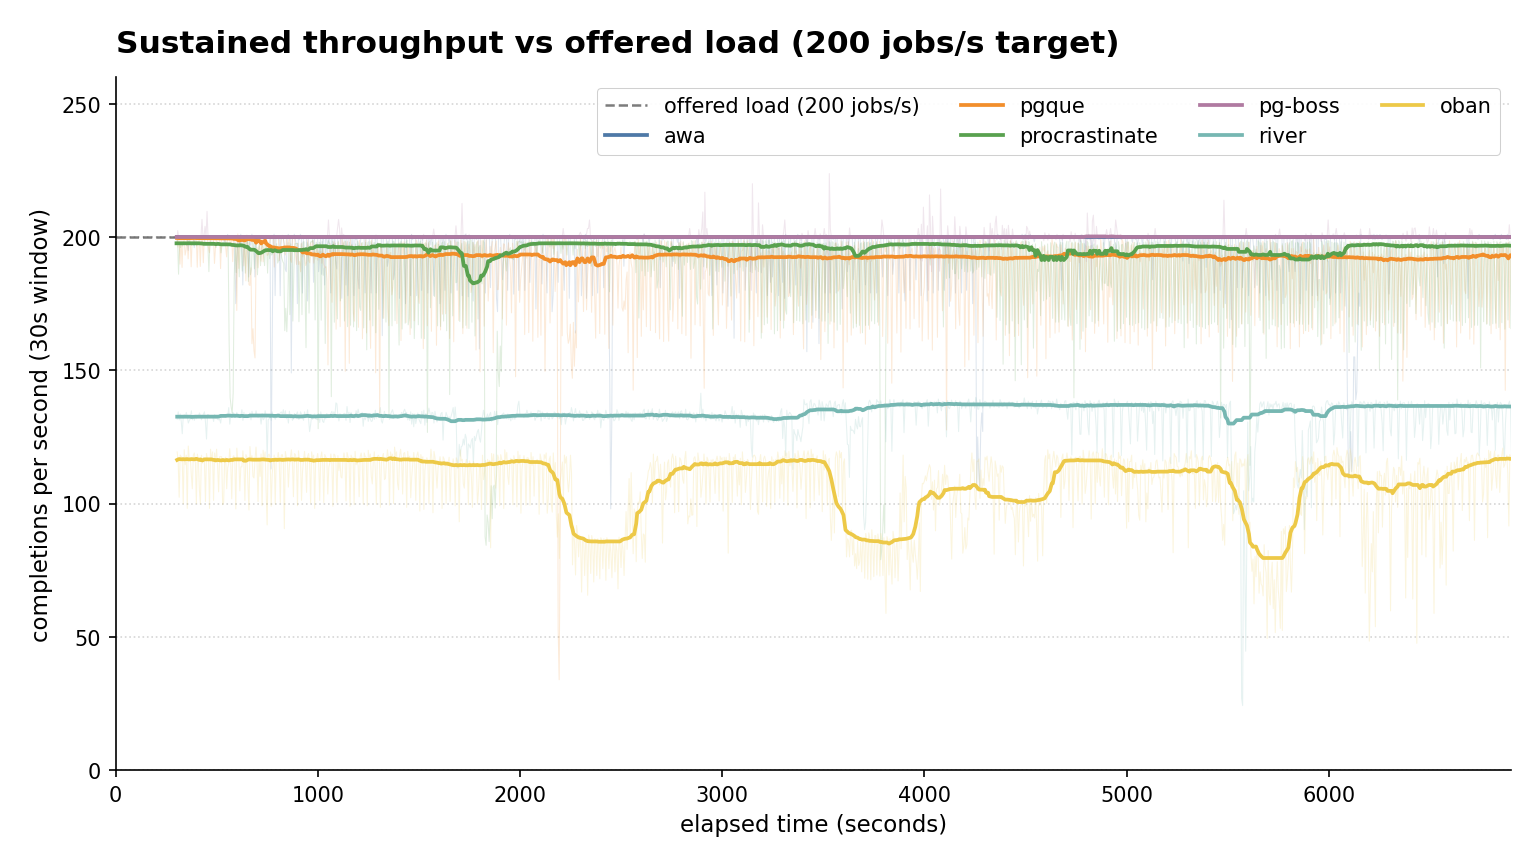
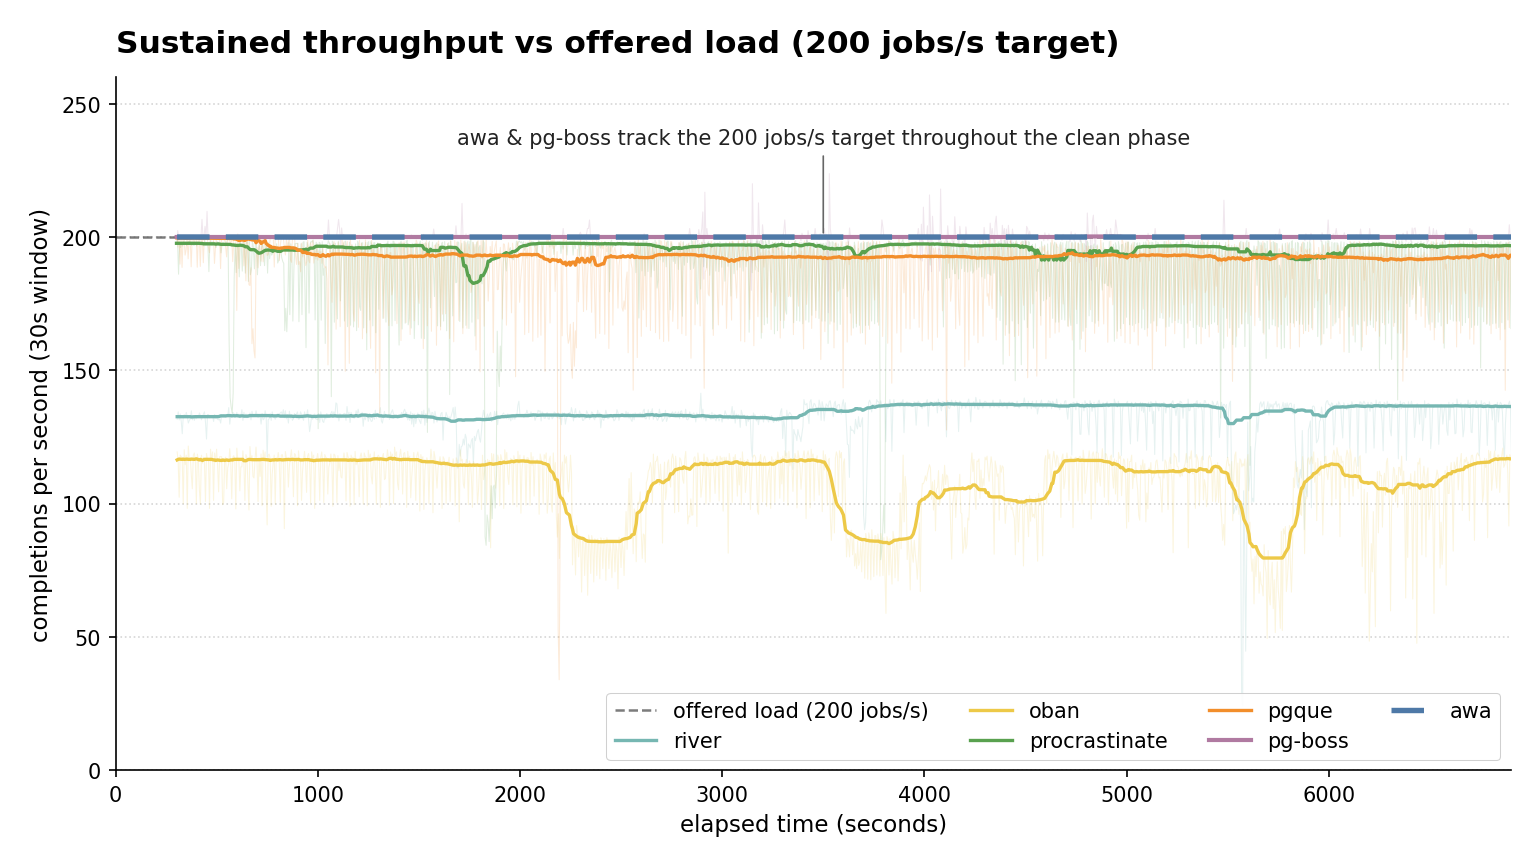
Throughput plot: make awa/pg-boss overlap legible
Both awa and pg-boss track the 200 jobs/s target exactly through the
115-minute clean phase, so their lines coincided in the original
plot — looking like awa was missing. Now pg-boss renders solid and
awa renders dashed on top with extra weight, plus an inline
annotation calling out that both systems track the target.

Also localises raw.csv to results/2026-04-28/combined/raw.csv (the
copy in this repo, gitignored due to size) instead of the path in
the upstream awa tree, which was deleted when the bench harness was
extracted.

diff --git a/scripts/render_readme_plots.py b/scripts/render_readme_plots.py
@@ -28,10 +28,7 @@ from bench_harness.plots import lttb
 REPO_ROOT = Path("/home/brian/dev/postgresql-job-queue-benchmarking")
 RESULTS_DIR = REPO_ROOT / "results" / "2026-04-28"
 SUMMARY_PATH = RESULTS_DIR / "combined" / "summary.json"
-RAW_CSV = Path(
-    "/home/brian/dev/awa/benchmarks/portable/results/comparison-2026-04-28/"
-    "full-combined-with-pgboss-and-pyfix/raw.csv"
-)
+RAW_CSV = RESULTS_DIR / "combined" / "raw.csv"
 OUT_DIR = RESULTS_DIR / "plots"
 
 # ---------------------------------------------------------------------------
@@ -141,7 +138,14 @@ def plot_throughput(df: pd.DataFrame, out_path: Path) -> None:
         label=f"offered load ({OFFERED_LOAD:g} jobs/s)",
     )
 
-    for system in SYSTEMS:
+    # Render order matters: draw the slowest systems first so they sit
+    # behind, then build up to the systems that hug the 200/s target.
+    # awa and pg-boss both track 200/s exactly, so their lines overlap.
+    # We draw pg-boss as a solid line, then awa as a slightly heavier
+    # dashed line on top, so both are visible where they coincide.
+    render_order = ["river", "oban", "procrastinate", "pgque", "pgboss", "awa"]
+
+    for system in render_order:
         s = grouped[grouped["system"] == system].sort_values("elapsed_s").copy()
         if s.empty:
             print(f"  WARN: no completion_rate samples for {system}")
@@ -154,28 +158,51 @@ def plot_throughput(df: pd.DataFrame, out_path: Path) -> None:
         ys_smoothed = (
             pd.Series(ys_raw).rolling(window=60, center=True, min_periods=10).median().to_numpy()
         )
-        # Light raw underlay to show the variance honestly.
-        ax.plot(
-            xs,
-            ys_raw,
-            color=COLOR[system],
-            linewidth=0.5,
-            alpha=0.18,
-            zorder=2,
-        )
+        # Light raw underlay to show the variance honestly. Skip for awa
+        # so its dashed-on-top line stays crisp where it overlaps pg-boss.
+        if system != "awa":
+            ax.plot(
+                xs,
+                ys_raw,
+                color=COLOR[system],
+                linewidth=0.5,
+                alpha=0.18,
+                zorder=2,
+            )
         px, py = (
             lttb(xs, ys_smoothed, LTTB_TARGET)
             if xs.size > LTTB_TARGET
             else (xs, ys_smoothed)
         )
-        ax.plot(
-            px,
-            py,
-            color=COLOR[system],
-            linewidth=1.8,
-            label=DISPLAY_NAMES[system],
-            zorder=3,
-        )
+        if system == "awa":
+            # Dashed, thicker, on top of pg-boss so the overlap is legible.
+            ax.plot(
+                px,
+                py,
+                color=COLOR[system],
+                linewidth=2.6,
+                linestyle=(0, (6, 3)),
+                label=DISPLAY_NAMES[system],
+                zorder=6,
+            )
+        elif system == "pgboss":
+            ax.plot(
+                px,
+                py,
+                color=COLOR[system],
+                linewidth=2.0,
+                label=DISPLAY_NAMES[system],
+                zorder=4,
+            )
+        else:
+            ax.plot(
+                px,
+                py,
+                color=COLOR[system],
+                linewidth=1.6,
+                label=DISPLAY_NAMES[system],
+                zorder=3,
+            )
 
     ax.set_title(
         "Sustained throughput vs offered load (200 jobs/s target)",
@@ -188,8 +215,25 @@ def plot_throughput(df: pd.DataFrame, out_path: Path) -> None:
     ax.set_ylim(0, 260)
     ax.grid(True, axis="y", linestyle=":", color="#bbb", alpha=0.6)
 
+    # Annotation calling out that awa and pg-boss both track the target
+    # exactly. Without this, the overlap reads as "one line missing".
+    ax.annotate(
+        "awa & pg-boss track the 200 jobs/s target throughout the clean phase",
+        xy=(3500, 200),
+        xytext=(3500, 235),
+        ha="center",
+        fontsize=10,
+        color="#222",
+        arrowprops=dict(
+            arrowstyle="-",
+            color="#666",
+            linewidth=0.8,
+            connectionstyle="arc3,rad=0",
+        ),
+    )
+
     leg = ax.legend(
-        loc="upper right",
+        loc="lower right",
         ncol=4,
         frameon=True,
         framealpha=0.92,
